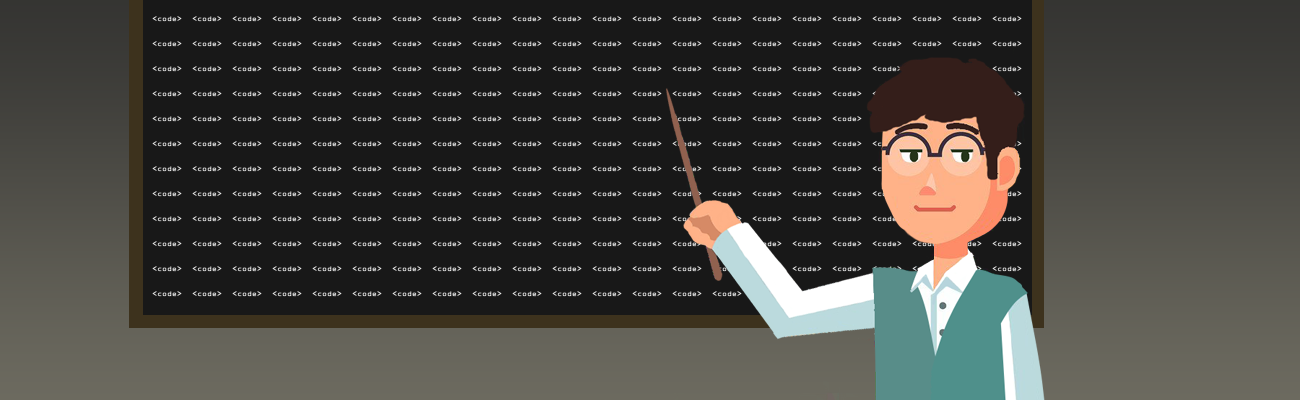
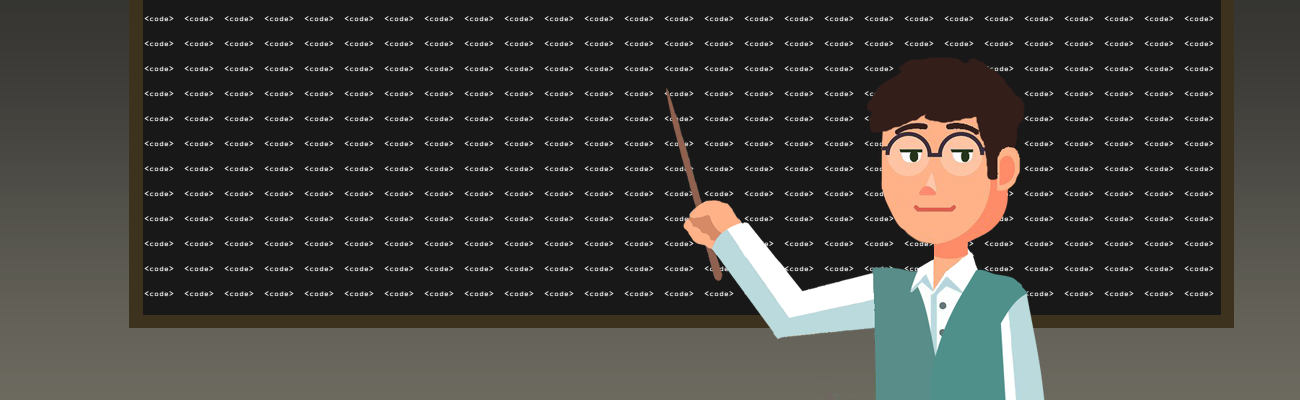
.

diff --git a/assets/css/screen.css b/assets/css/screen.css
@@ -478,7 +478,7 @@ margin on the iframe, cause it breaks stuff. */
     text-decoration: none;
     text-align: center;
     background: #222 no-repeat center center;
-    background-size: cover;
+    background-size: 100%;
     overflow: hidden;
 }
 
